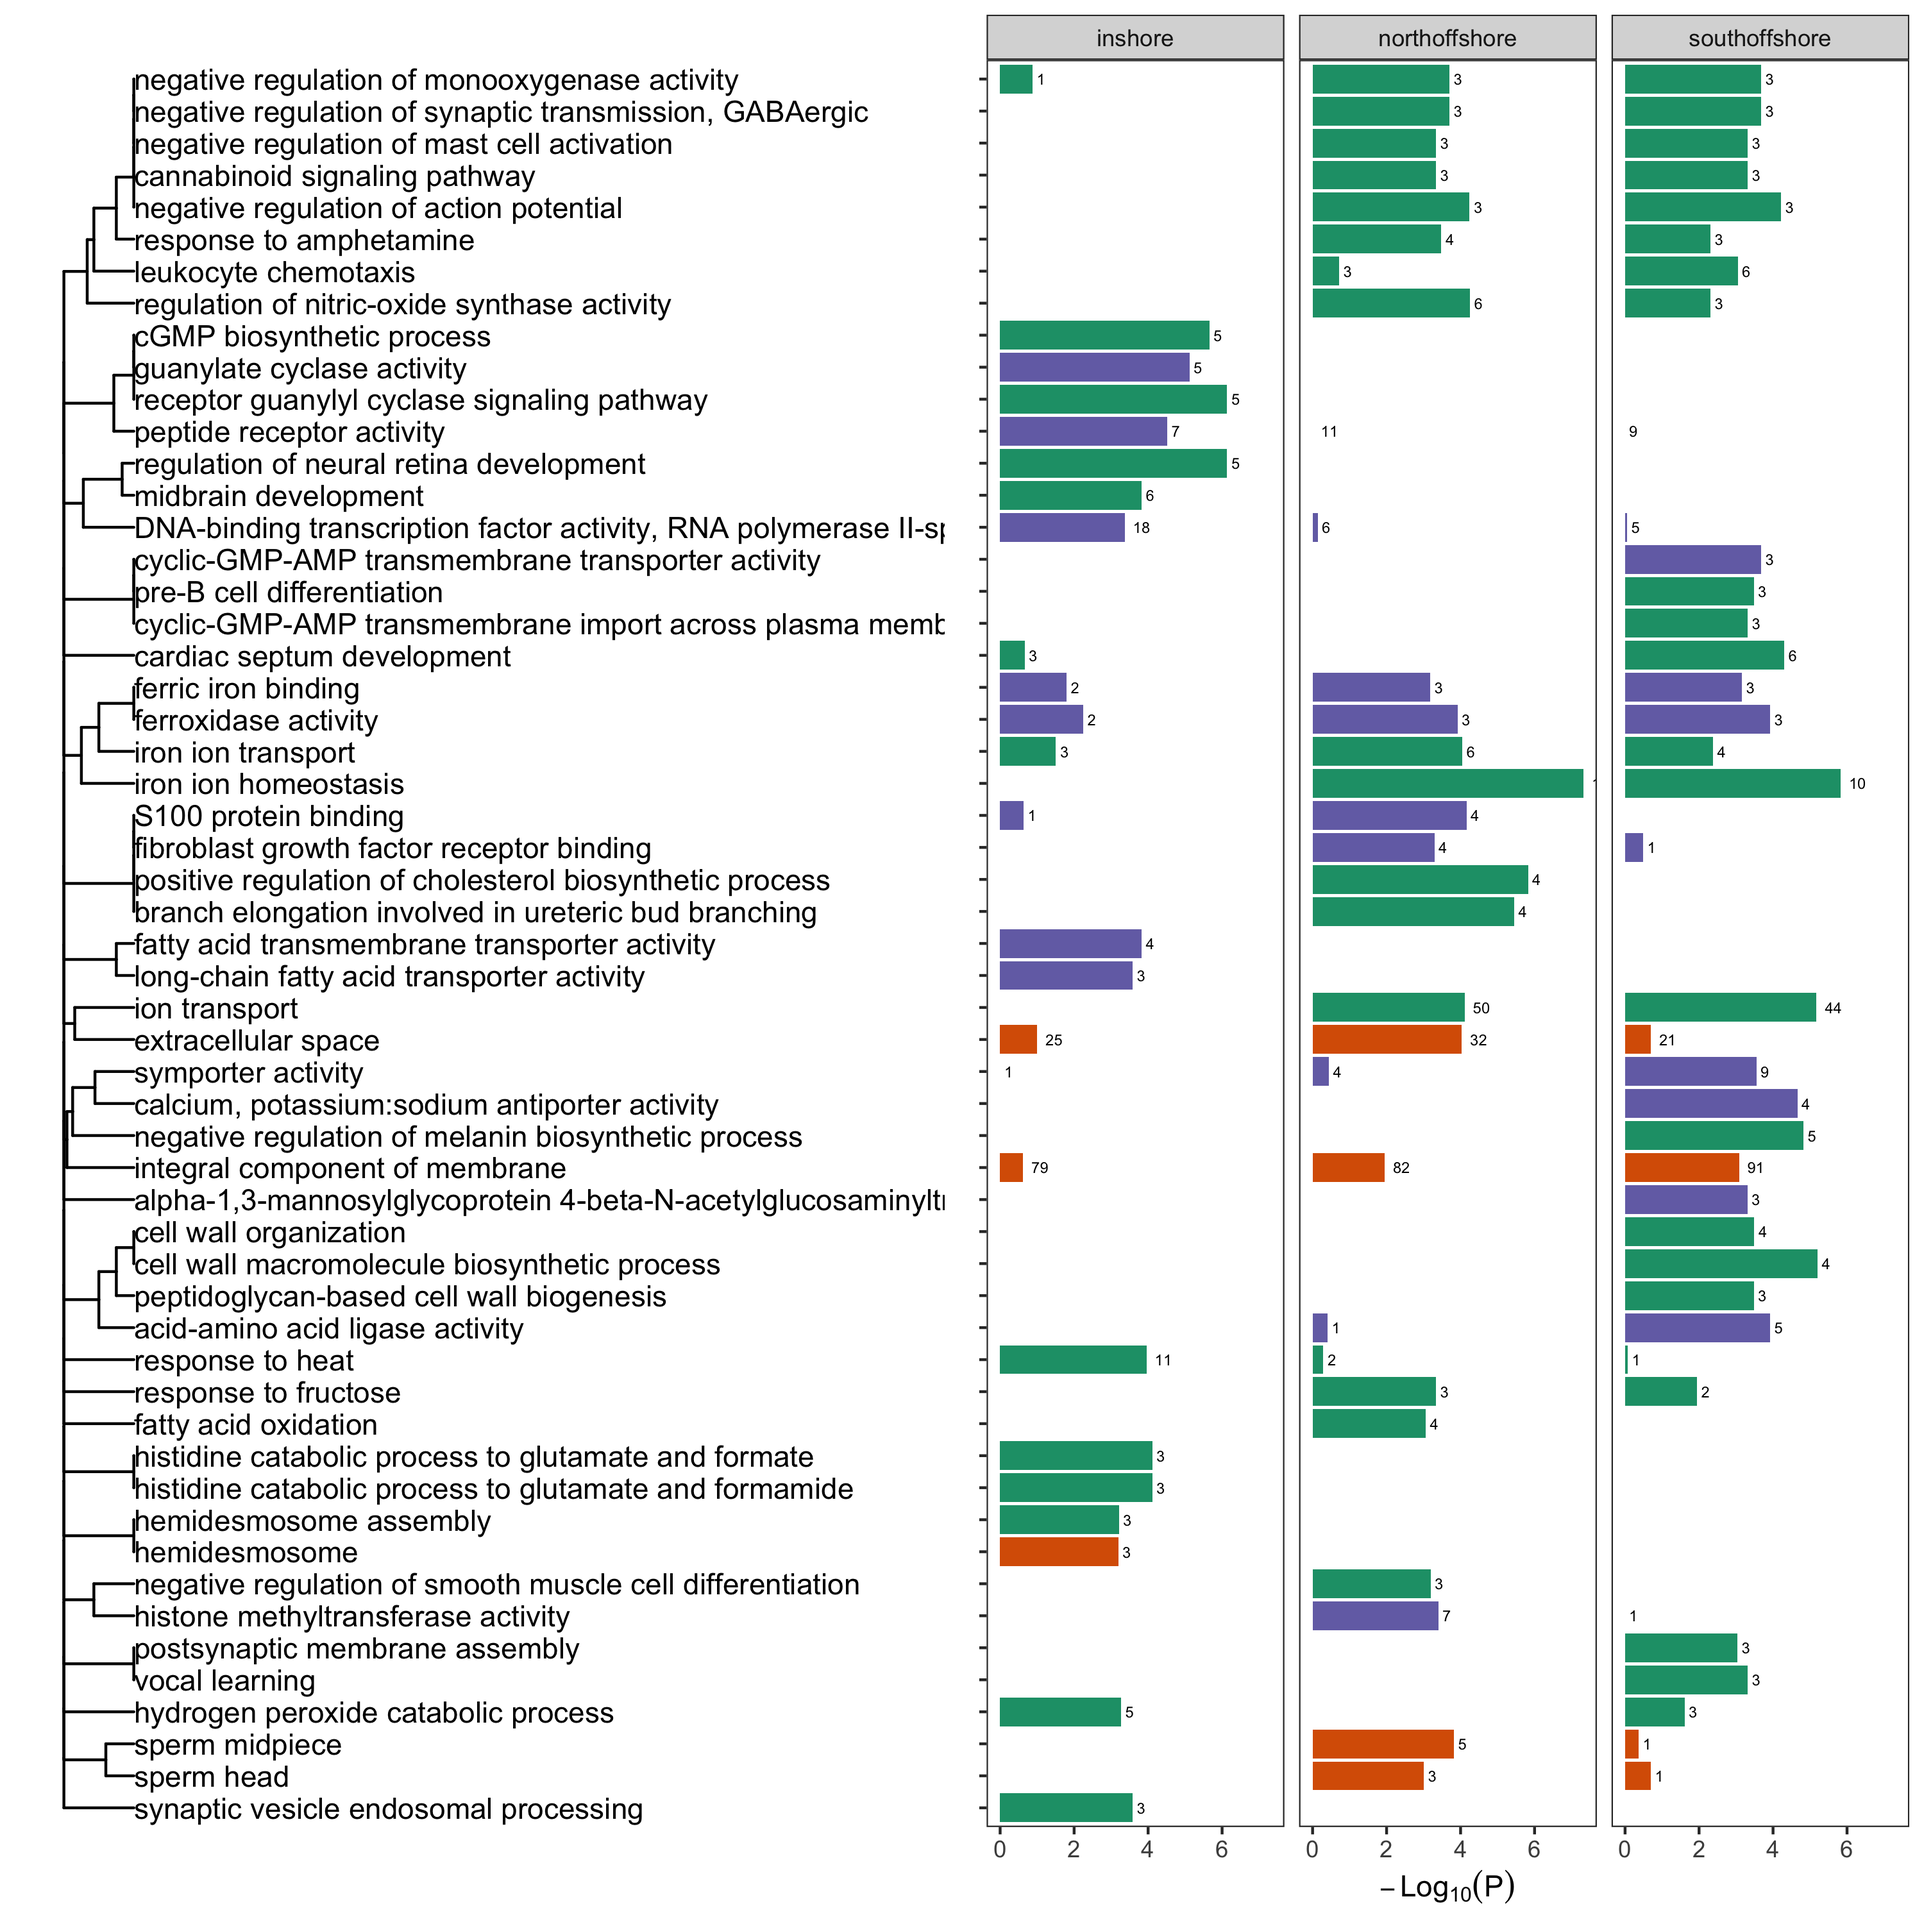
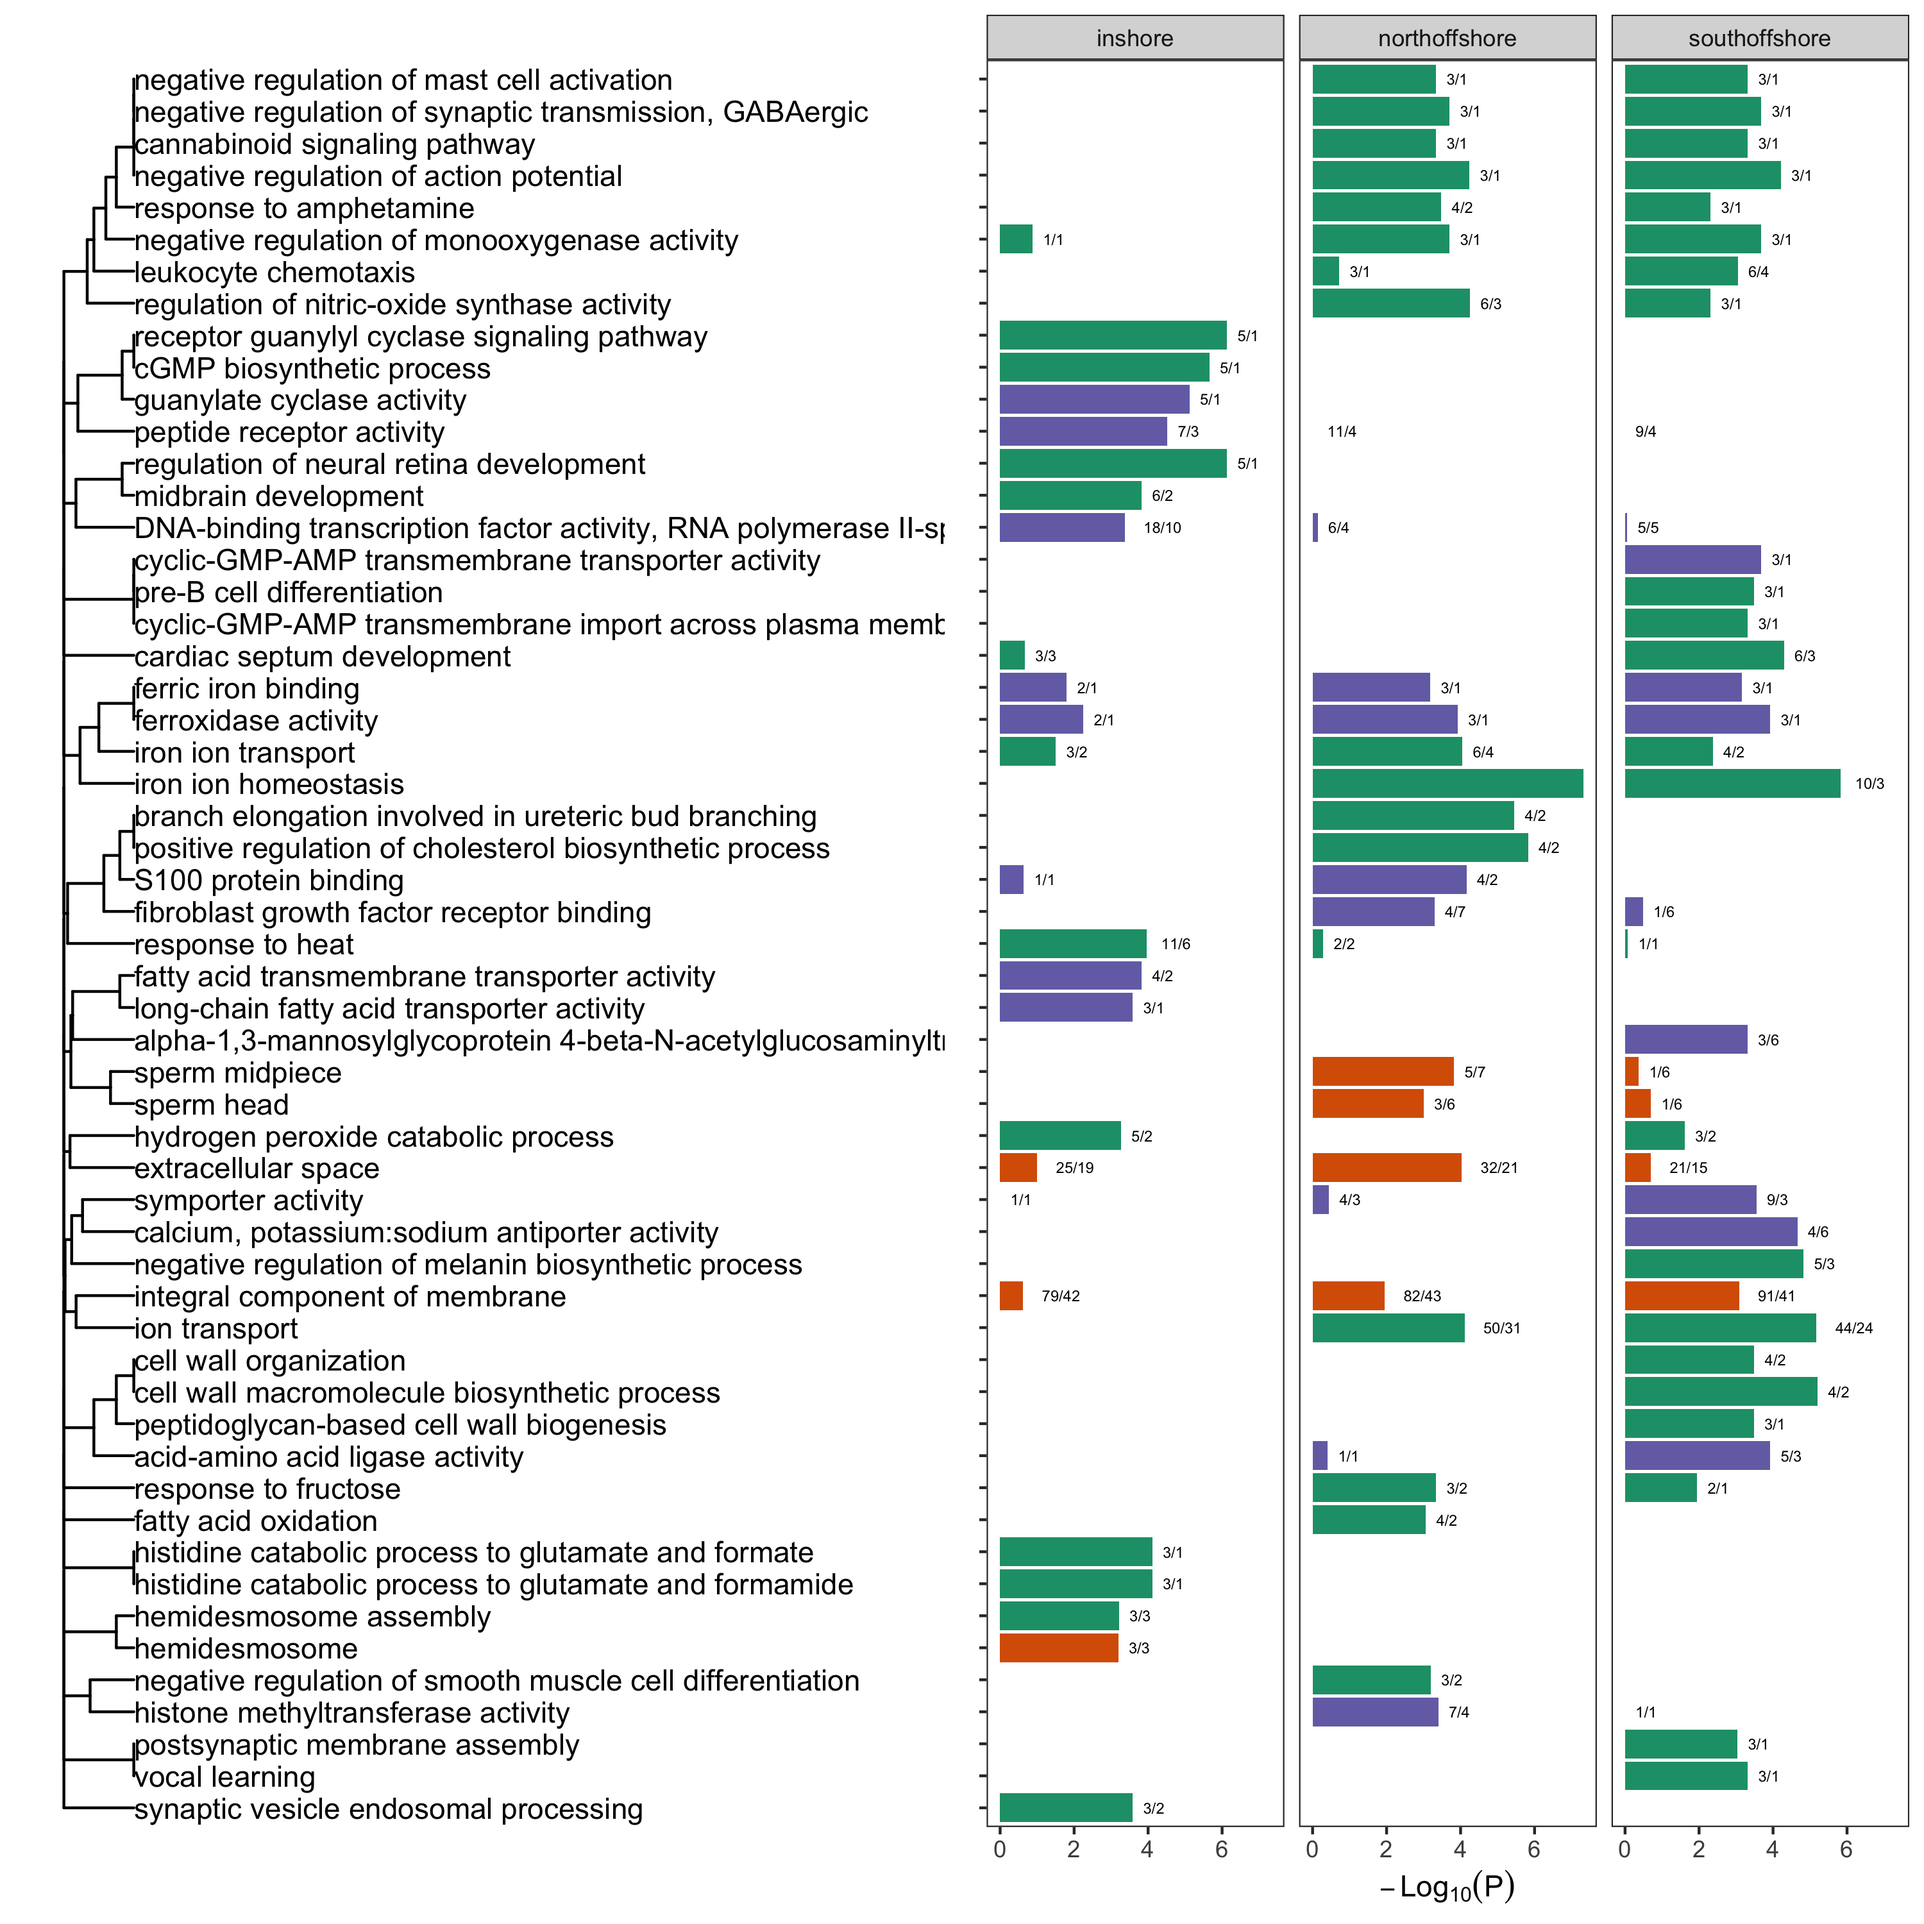
Add number of regions to enrichment plot labels

diff --git a/11.GO_enrichment.md b/11.GO_enrichment.md
@@ -31,7 +31,7 @@ the background set was taken as the complete set of annotated genes for
 We found a total of 55 GO terms enriched (p&lt;0.001) across all three
 of the locations. These are summarised in Figure 2.
 
-<img src="11.GO_enrichment_files/figure-gfm/unnamed-chunk-7-1.png" width="672" />
+<img src="11.GO_enrichment_files/figure-gfm/unnamed-chunk-6-1.png" width="672" />
 
 **Figure 2: Enriched GO terms for genes intersecting with candidate loci
 under selection**. Length of bars indicates significance (longer is more
@@ -42,20 +42,23 @@ annotated genes.
 
 Interestingly, we found the genes under selection in inshore were
 enriched in response to heat `GO:0009408` (Figure 2). This included a
-total of 11 genes overlapping with 6 distinct candidate regions. This
+total of 14 genes overlapping with 9 distinct candidate regions. This
 included four copies of a HSP-16 homolog within a single region that was
 identified as significant in all three EHH statistics.
 
-| region\_id                     | genes           | entryname    | genename                         | protein                                                                                                                                                                                |      frac | stats           |
-|:-------------------------------|:----------------|:-------------|:---------------------------------|:---------------------------------------------------------------------------------------------------------------------------------------------------------------------------------------|----------:|:----------------|
-| BLFC01000185\_900000\_1050001  | adig\_s0062.g74 | DAXX\_CANLF  | DAXX                             | Death domain-associated protein 6 (Daxx)                                                                                                                                               | 0.4073883 | xpehh;xpnsl     |
-| BLFC01000277\_1200000\_1250001 | adig\_s0082.g83 | TRPA1\_RAT   | Trpa1 Anktm1                     | Transient receptor potential cation channel subfamily A member 1 (Ankyrin-like with transmembrane domains protein 1) (Wasabi receptor)                                                 | 0.1150490 | xpnsl           |
-| BLFC01000277\_1200000\_1250001 | adig\_s0082.g84 | TRPA1\_DROME | TrpA1 Anktm1 CG5751              | Transient receptor potential cation channel subfamily A member 1 (dTRPA1) (Ankyrin-like with transmembrane domains protein 1) (dANKTM1)                                                | 0.1150490 | xpnsl           |
-| BLFC01000298\_200000\_350001   | adig\_s0120.g14 | HSP12\_CAEEL | hsp-16.2 hsp-16 hsp16-2 Y46H3A.3 | Heat shock protein hsp-16.2                                                                                                                                                            | 0.2556995 | xpehh;xpnsl;ihs |
-| BLFC01000298\_200000\_350001   | adig\_s0120.g15 | HSP12\_CAEEL | hsp-16.2 hsp-16 hsp16-2 Y46H3A.3 | Heat shock protein hsp-16.2                                                                                                                                                            | 0.2556995 | xpehh;xpnsl;ihs |
-| BLFC01000298\_200000\_350001   | adig\_s0120.g16 | HSP12\_CAEEL | hsp-16.2 hsp-16 hsp16-2 Y46H3A.3 | Heat shock protein hsp-16.2                                                                                                                                                            | 0.2556995 | xpehh;xpnsl;ihs |
-| BLFC01000298\_200000\_350001   | adig\_s0120.g17 | HSP12\_CAEEL | hsp-16.2 hsp-16 hsp16-2 Y46H3A.3 | Heat shock protein hsp-16.2                                                                                                                                                            | 0.2556995 | xpehh;xpnsl;ihs |
-| BLFC01000326\_1550000\_2150001 | adig\_s0038.g95 | DNJA1\_PONAB | DNAJA1                           | DnaJ homolog subfamily A member 1                                                                                                                                                      | 0.6078876 | ihs;xpehh;xpnsl |
-| BLFC01000375\_1150000\_1250001 | adig\_s0052.g74 | ANO1\_HUMAN  | ANO1 DOG1 ORAOV2 TAOS2 TMEM16A   | Anoctamin-1 (Discovered on gastrointestinal stromal tumors protein 1) (Oral cancer overexpressed protein 2) (Transmembrane protein 16A) (Tumor-amplified and overexpressed sequence 2) | 0.2313040 | ihs;xpnsl       |
-| BLFC01000375\_1150000\_1250001 | adig\_s0052.g75 | ANO1\_HUMAN  | ANO1 DOG1 ORAOV2 TAOS2 TMEM16A   | Anoctamin-1 (Discovered on gastrointestinal stromal tumors protein 1) (Oral cancer overexpressed protein 2) (Transmembrane protein 16A) (Tumor-amplified and overexpressed sequence 2) | 0.2313040 | ihs;xpnsl       |
-| BLFC01000770\_1200000\_1250001 | adig\_s0003.g72 | CBPB2\_MOUSE | Cpb2 Tafi                        | Carboxypeptidase B2 (EC 3.4.17.20) (Carboxypeptidase R) (CPR) (Carboxypeptidase U) (CPU) (Thrombin-activable fibrinolysis inhibitor) (TAFI)                                            | 0.5354713 | ihs;xpehh;xpnsl |
+| region\_id                     | genes            | entryname    | genename                         | protein                                                                                                                                                                                |      frac | stats           |
+|:-------------------------------|:-----------------|:-------------|:---------------------------------|:---------------------------------------------------------------------------------------------------------------------------------------------------------------------------------------|----------:|:----------------|
+| BLFC01000185\_900000\_1050001  | adig\_s0062.g74  | DAXX\_CANLF  | DAXX                             | Death domain-associated protein 6 (Daxx)                                                                                                                                               | 0.4073883 | xpehh;xpnsl     |
+| BLFC01000277\_1200000\_1250001 | adig\_s0082.g83  | TRPA1\_RAT   | Trpa1 Anktm1                     | Transient receptor potential cation channel subfamily A member 1 (Ankyrin-like with transmembrane domains protein 1) (Wasabi receptor)                                                 | 0.1150490 | xpnsl           |
+| BLFC01000277\_1200000\_1250001 | adig\_s0082.g84  | TRPA1\_DROME | TrpA1 Anktm1 CG5751              | Transient receptor potential cation channel subfamily A member 1 (dTRPA1) (Ankyrin-like with transmembrane domains protein 1) (dANKTM1)                                                | 0.1150490 | xpnsl           |
+| BLFC01000298\_200000\_350001   | adig\_s0120.g14  | HSP12\_CAEEL | hsp-16.2 hsp-16 hsp16-2 Y46H3A.3 | Heat shock protein hsp-16.2                                                                                                                                                            | 0.2556995 | xpehh;xpnsl;ihs |
+| BLFC01000298\_200000\_350001   | adig\_s0120.g15  | HSP12\_CAEEL | hsp-16.2 hsp-16 hsp16-2 Y46H3A.3 | Heat shock protein hsp-16.2                                                                                                                                                            | 0.2556995 | xpehh;xpnsl;ihs |
+| BLFC01000298\_200000\_350001   | adig\_s0120.g16  | HSP12\_CAEEL | hsp-16.2 hsp-16 hsp16-2 Y46H3A.3 | Heat shock protein hsp-16.2                                                                                                                                                            | 0.2556995 | xpehh;xpnsl;ihs |
+| BLFC01000298\_200000\_350001   | adig\_s0120.g17  | HSP12\_CAEEL | hsp-16.2 hsp-16 hsp16-2 Y46H3A.3 | Heat shock protein hsp-16.2                                                                                                                                                            | 0.2556995 | xpehh;xpnsl;ihs |
+| BLFC01000326\_1550000\_2150001 | adig\_s0038.g95  | DNJA1\_PONAB | DNAJA1                           | DnaJ homolog subfamily A member 1                                                                                                                                                      | 0.6078876 | ihs;xpehh;xpnsl |
+| BLFC01000375\_1150000\_1250001 | adig\_s0052.g74  | ANO1\_HUMAN  | ANO1 DOG1 ORAOV2 TAOS2 TMEM16A   | Anoctamin-1 (Discovered on gastrointestinal stromal tumors protein 1) (Oral cancer overexpressed protein 2) (Transmembrane protein 16A) (Tumor-amplified and overexpressed sequence 2) | 0.2313040 | ihs;xpnsl       |
+| BLFC01000375\_1150000\_1250001 | adig\_s0052.g75  | ANO1\_HUMAN  | ANO1 DOG1 ORAOV2 TAOS2 TMEM16A   | Anoctamin-1 (Discovered on gastrointestinal stromal tumors protein 1) (Oral cancer overexpressed protein 2) (Transmembrane protein 16A) (Tumor-amplified and overexpressed sequence 2) | 0.2313040 | ihs;xpnsl       |
+| BLFC01000770\_1200000\_1250001 | adig\_s0003.g72  | CBPB2\_MOUSE | Cpb2 Tafi                        | Carboxypeptidase B2 (EC 3.4.17.20) (Carboxypeptidase R) (CPR) (Carboxypeptidase U) (CPU) (Thrombin-activable fibrinolysis inhibitor) (TAFI)                                            | 0.5354713 | ihs;xpehh;xpnsl |
+| BLFC01000298\_550000\_600001   | adig\_s0120.g50  | HSP12\_CAEEL | hsp-16.2 hsp-16 hsp16-2 Y46H3A.3 | Heat shock protein hsp-16.2                                                                                                                                                            | 0.2698720 | xpehh           |
+| BLFC01000410\_1050000\_1100001 | adig\_s0163.g82  | FGF1\_PIG    | FGF1                             | Fibroblast growth factor 1 (FGF-1) (Acidic fibroblast growth factor) (aFGF) (Endothelial cell growth factor) (ECGF) (Heparin-binding growth factor 1) (HBGF-1) (Fragment)              | 0.3700620 | ihs             |
+| BLFC01000123\_1650000\_1750001 | adig\_s0039.g144 | GSH1\_HUMAN  | GCLC GLCL GLCLC                  | Glutamate–cysteine ligase catalytic subunit (EC 6.3.2.2) (GCS heavy chain) (Gamma-ECS) (Gamma-glutamylcysteine synthetase)                                                             | 0.3612090 | ihs             |
